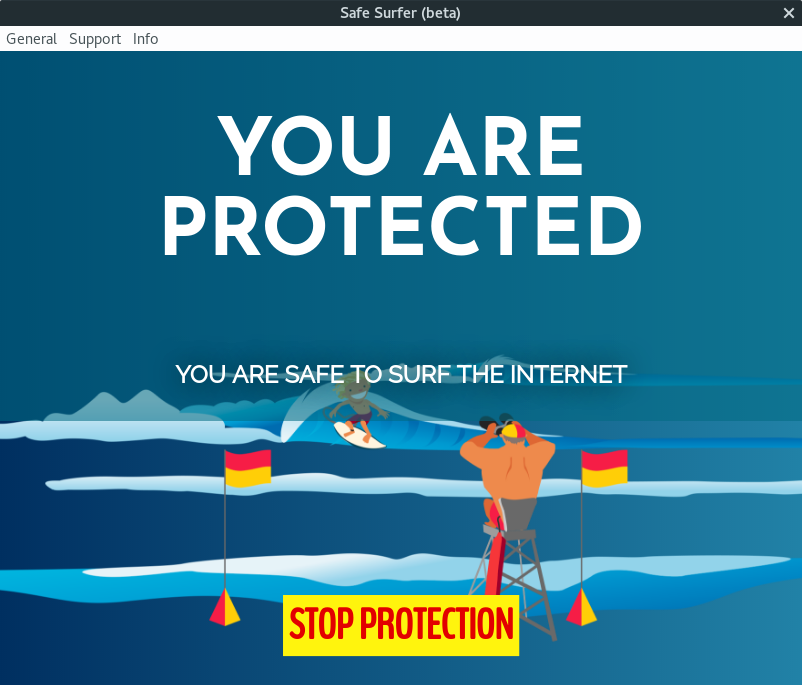
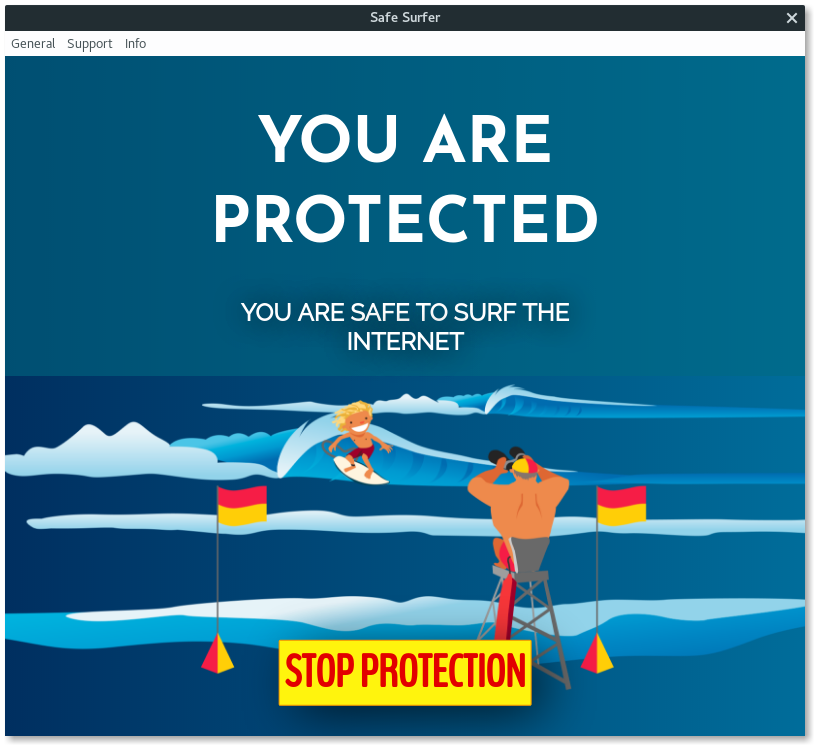
UPDATED: README.md, logic.js, screenshots, etc...
Updated:
- To version 1.0.0rc1 (now is a release candidate)
- Dependencies
- Screenshots

Fixed:
- macOS suppport

diff --git a/assets/scripts/logic.js b/assets/scripts/logic.js
@@ -67,7 +67,7 @@ if (LINUXPACKAGEFORMAT.linuxpackageformat == 'appimage') {
 
 if (os.platform() == 'linux') {
   if (window.desktop.logic.shelljs_which('pkexec') != null) window.appStates.guiSudo = 'pkexec';
-  else window.appStates.guiSudo = 'xdg-su';
+  else if (window.desktop.logic.shelljs_which('xdg-su') != null) window.appStates.guiSudo = 'xdg-su';
 }
 
 // functions
@@ -75,7 +75,7 @@ const appFrame = Object.freeze({
   callProgram: async function(command) {
     // call a child process
     let promise = new Promise((resolve, reject) => {
-      logging(String('COMMAND: calling - ' + command));
+      logging(`COMMAND: calling - '${command}'`);
       var command_split = command.split(" "),
         command_arg = [];
       // concatinate 2+ into a variable
@@ -83,10 +83,10 @@ const appFrame = Object.freeze({
         command_arg = [...command_arg, command_split[i]];
       }
       // command will be executed as: comand [ARGS]
-      require('child_process').execFile(command_split[0],command_arg, function(err, stdout, stderr) {
-        logging(String("COMMAND: output - " + stdout));
-        if (err) logging(String("COMMAND: output error - " + err));
-        if (stderr) logging(String("COMMAND: output stderr - " + stderr));
+      require('child_process').execFile(command_split[0], command_arg, function(err, stdout, stderr) {
+        logging(`COMMAND: output - ${stdout}`);
+        if (err) logging(`COMMAND: output error - ${err}`);
+        if (stderr) logging(`COMMAND: output stderr - ${stderr}`);
         if (!err && !stderr) resolve(true);
       });
     });
@@ -102,16 +102,19 @@ const appFrame = Object.freeze({
         appFrame.callProgram(`pkexec ${command}`);
         break;
 
-      default:
+      /*case 'xdg-su':
         logging('SUDOGUI: Running with xdg-su');
         appFrame.callProgram(`xdg-su -c '${command}'`);
+        break;*/
+
+      default:
         break;
     }
   },
 
   elevateWindows: function() {
     // call a child process
-    appFrame.callProgram(String("powershell Start-Process '" + process.argv0 + "' -ArgumentList '.' -Verb runAs")).then((response) => {
+    appFrame.callProgram(`powershell Start-Process '${process.argv0}' -ArgumentList '.' -Verb runAs`).then((response) => {
       if (response == true) window.close();
     });
   },
@@ -735,13 +738,13 @@ const appFrame = Object.freeze({
       if (updateResponse == 1) {
         switch (os.platform()) {
           case 'win32':
-            appFrame.callProgram(String('shutdown /r /t 0'));
+            appFrame.callProgram('shutdown /r /t 0');
             break;
           case 'linux':
             appFrame.linuxGuiSudo(`/sbin/reboot`);
             break;
           case 'darwin':
-            appFrame.callProgram(String("osascript -e 'do shell script \"reboot\" with prompt \"Reboot to apply settings\\n\" with administrator privileges'"));
+            appFrame.callProgram("osascript -e 'do shell script \"reboot\" with prompt \"Reboot to apply settings\\n\" with administrator privileges'");
             break;
           default:
             dialog.showMessageBox({type: 'info', buttons: [i18n.__('Ok')], message: i18n.__("I'm unable to reboot for you, please reboot manually.")}, response => {});

diff --git a/README.md b/README.md
@@ -14,10 +14,10 @@ For enterprise/business use, it is recommmend to apply the DNS settings on a rou
 ![Safe Surfer](screenshots/SafeSurfer-Desktop-Activated-Standard.png)  
 For more screenshots of the app, please refer to the [screenshots](screenshots) folder.  
 
-### Latest [release information](https://gitlab.com/safesurfer/SafeSurfer-Desktop/tags/1.0.0b5): version 1.0.0b5 (THIS IS A STABLE BETA)
-## Install the latest beta build
-We need beta testers.  
-If you're wanting to beta test this software, please download the binaries or source and give it a go.  
+### Latest [release information](https://gitlab.com/safesurfer/SafeSurfer-Desktop/tags/1.0.0rc1): version 1.0.0rc1 (THIS IS A STABLE BETA)
+## Install the latest release candidate
+We need testers.  
+If you're wanting to test this software, please download the binaries or source and give it a go.  
 Our temporary site is found [here](http://142.93.48.189).  
 
 ## Features
